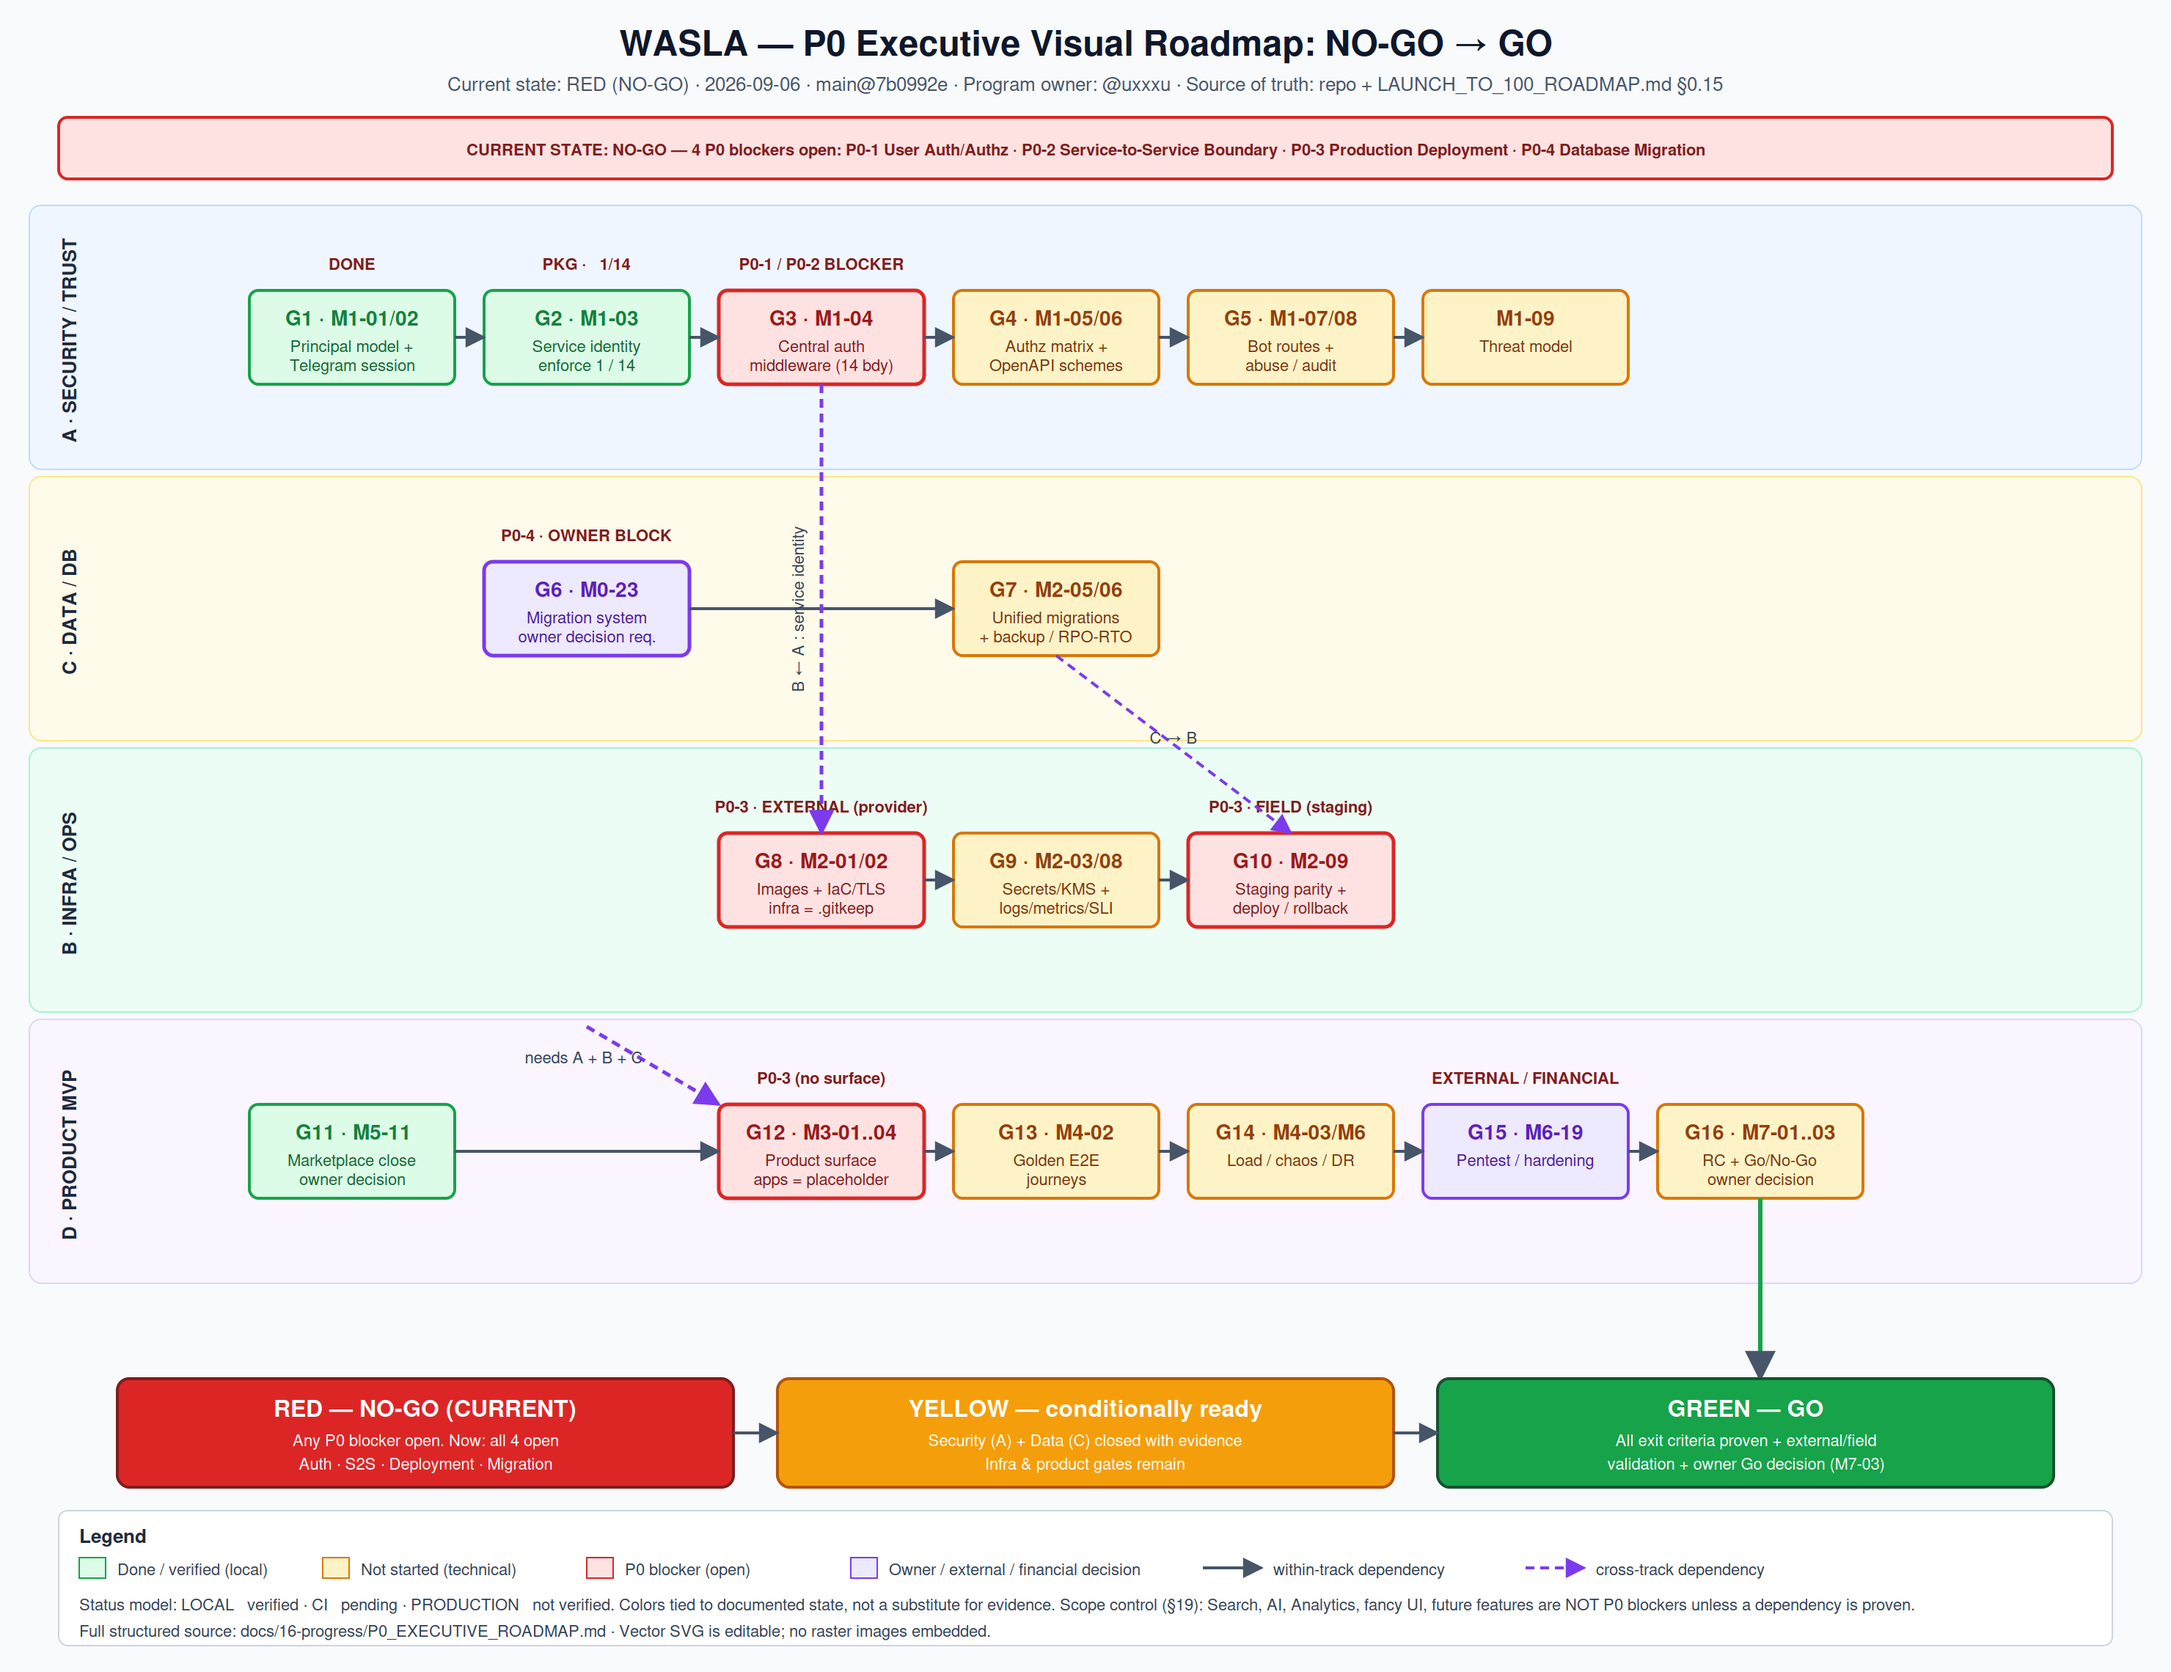
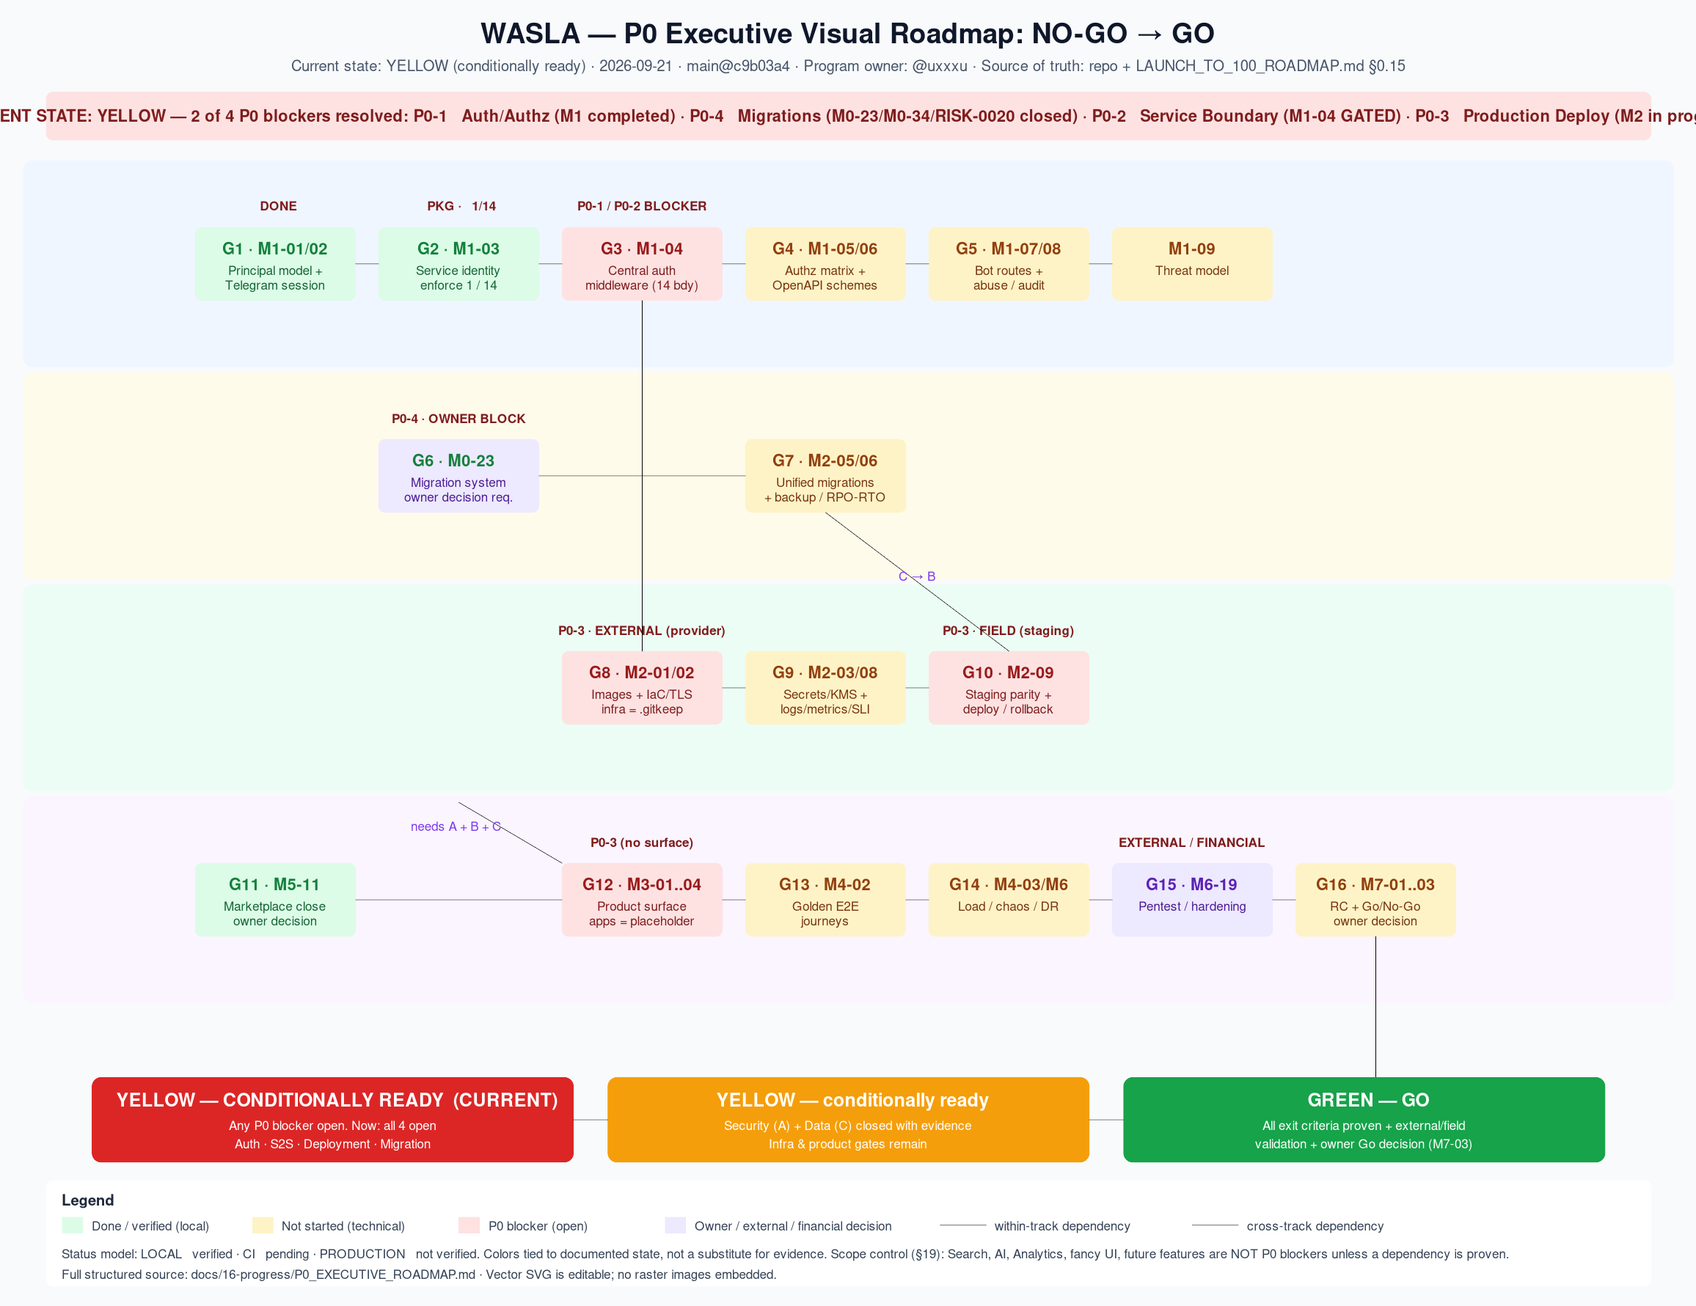
docs(m2-10): refresh SVG/PNG artifacts + status reconciliation notes (CLM-0266)
M2-10 artifact refresh:
- SVG updated: RED NO-GO → YELLOW (conditionally ready)
- Date/commit: 2026-09-06/7b0992e → 2026-09-21/c9b03a4
- M0-23 marked as Completed
- P0 blockers: 2 of 4 resolved (P0-1 Auth, P0-4 Migrations)
- PNG regenerated from updated SVG

Status reconciliation findings:
- M1-01/M1-02/M1-03/M1-04/M2-01 gates all PASSED in gate files
- Board only supports: Not Started|In Progress|Blocked|Ready for Gate|Completed|Cancelled
- 'GATED' is not a valid board status — items stay at 'Ready for Gate'
- Items are ready for owner decision to promote to Completed (§9)
- CI green: 33/33 on main@c9b03a4

Work claim: CLM-0266 active

diff --git a/docs/16-progress/TASK_LOG.md b/docs/16-progress/TASK_LOG.md
@@ -1,6 +1,21 @@
 
 
 
+
+## 2026-09-21 — Status Reconciliation: M1-01..04 + M2-01 gates PASSED + M2-10 artifact refresh (CLM-0266)
+
+- **Work Item(s):** M1-01 · M1-02 · M1-03 · M1-04 · M2-01 · M2-10 · **الحجز:** `CLM-0266` · **الفرع:** `docs/status-reconciliation-m1-m2-gated`
+- **القياس من:** main@c9b03a4 · 2026-09-21 · CI: 30 check runs all success on main@c9b03a4 (GitHub Actions: completed success ×2)
+- **الاكتشافُ:** بوّاباتُ M1-01/M1-02/M1-03/M1-04/M2-01 كلُّها PASSED في ملفاتِها، والـboard يُظهرُها `Ready for Gate`. لكنّ `validate-launch-board.sh` لا يقبلُ `GATED` كحالةٍ — حالاتُه المسموحُ بها: `Not Started|In Progress|Blocked|Ready for Gate|Completed|Cancelled`. فالـboard يستخدمُ نموذجَ حالاتٍ أبسطَ من STATUS_MODEL (الذي يُميِّزُ GATED كحالةٍ مستقلةٍ). لذا البنودُ صحيحةٌ في `Ready for Gate` في الـboard، وملفاتُ البوّابةِ تُوثِّقُ حكمَ GATED.
+- **ما نُفِّذَ:**
+  1. **تحديثُ M2-10 artifact:** SVG وPNG كانا يحتويان على مراجعَ قديمةٍ (2026-09-06 · main@7b0992e · RED NO-GO · M0-23 Not Started). حُدِّثَ النصُّ إلى الحالةِ الحاليّةِ (YELLOW · 2026-09-21 · main@c9b03a4 · M0-23 ✅) وأُعيدَ توليدُ PNG.
+  2. **تحديثُ M2-10_GATE.md:** ملاحظةُ تحديثِ الـartifact freshness.
+  3. **توثيقُ أنّ M1-01..04 وM2-01 جاهزةٌ لقرارِ المالكِ بالنقلِ إلى `Completed`** (§9): البوّاباتُ PASSED · CI أخضرُ 33/33 · الأدلةُ الثلاثةُ مستقلّةٌ متوفّرةٌ (Implementation + Verification + Gate).
+- **دليلُ CI الحديث:** main@c9b03a4 — GitHub Actions: completed success ×2 · 30 check runs all success.
+- **الحاجزُ الفعليُّ:** M2-02 يحتاج RENDER_API_KEY/RENDER_OWNER_ID (يحجبُ M2-03/05/06/07). M2-10 يحتاجُ مراجعةَ مالكٍ. M1-01..04 وM2-01 تحتاجُ قرارَ مالكٍ للنقلِ إلى Completed.
+
+---
+
 ## 2026-09-21 — M2-10: بوّابةُ الخريطةِ التنفيذيّةِ + تحديثُ P0 (CLM-0265)
 
 - **Work Item(s):** M2-10 · **الحجز:** `CLM-0265` · **الفرع:** `docs/m2-10-gate-and-p0-refresh`

diff --git a/docs/16-progress/WORK_CLAIMS.md b/docs/16-progress/WORK_CLAIMS.md
@@ -382,4 +382,5 @@ docs/16-progress/MASTER_PROGRESS.md
 | CLM-0191 | M1-07 | @uxxxu (agent:perplexity-computer) | feat/m1-07-bot-route-protection | packages/bot-runtime/,packages/contracts/channel/,packages/channel-core/contracts/,packages/authz-policy/,packages/channel-e2e/,bots/customer-bot/,bots/driver-bot/,bots/partner-bot/,scripts/checks/,docs/07-security/,docs/12-testing/,docs/16-progress/,ROADMAP.md,pnpm-lock.yaml | 2026-09-16 | 2026-09-30 | Released |
 | CLM-0192 | M1-08 | @uxxxu (agent:perplexity-computer) | feat/m1-08-edge-abuse-controls | 2026-09-16 | **دُمج في `main` عبر [PR #201](https://github.com/skyosv10-art/wasla/pull/201)** (مُدمجٌ 2026-09-16 · squash · التزامُ الدمجِ [`a9308c9`](https://github.com/skyosv10-art/wasla/commit/a9308c9) · طبقةُ ضوابطِ حدٍّ مشتركةٌ: `EdgeRateLimiter` + `redactErrorBody` + `AuditEventSink` · 22 اختباراً · 33/33 فحوصاً خضراء · إقفالُ دورة §8.1) |
 
+| CLM-0266 | M2-01 | @uxxxu (agent:perplexity-computer) | docs/status-reconciliation-m1-m2-gated | docs/16-progress/, docs/12-testing/ | 2026-09-21 | 2026-10-05 | Active | Status reconciliation + M2-10 artifact refresh. M1-01..04 + M2-01 gates PASSED, CI green 33/33 on main@c9b03a4. Board does not support GATED status (only Ready for Gate → Completed). M2-10 SVG/PNG updated from stale RED to YELLOW. |
 | CLM-0265 | M2-10 | @uxxxu (agent:perplexity-computer) | docs/m2-10-gate-and-p0-refresh | docs/12-testing/,docs/16-progress/ | 2026-09-21 | 2026-10-05 | Released | PR #331 merged (squash ce497ca) · CI green 33/33 + Roadmap freshness · M2-10_GATE.md created · P0_EXECUTIVE_ROADMAP.md refreshed |

diff --git a/docs/12-testing/M2-10_GATE.md b/docs/12-testing/M2-10_GATE.md
@@ -6,7 +6,7 @@
 >
 > **نموذجُ الحالات:** [`STATUS_MODEL.md`](../00-rules/STATUS_MODEL.md)
 >
-> **Last Updated:** 2026-09-21 · **الحالةُ المُعلَنة:** `READY FOR GATE` — المُخرَجاتُ موجودةٌ وحكمُ CI أخضرُ مقروءٌ — **ومراجعةُ المالكِ معيارُ القبولِ الصريحُ ولم تُسجَّلْ بعدُ.**
+> **Last Updated:** 2026-09-21 (artifact refresh: SVG/PNG updated to reflect YELLOW state, RISK-0020 closed, M0-23 Completed) · **الحالةُ المُعلَنة:** `READY FOR GATE` — المُخرَجاتُ موجودةٌ وحكمُ CI أخضرُ مقروءٌ — **ومراجعةُ المالكِ معيارُ القبولِ الصريحُ ولم تُسجَّلْ بعدُ.**
 
 ---
 
